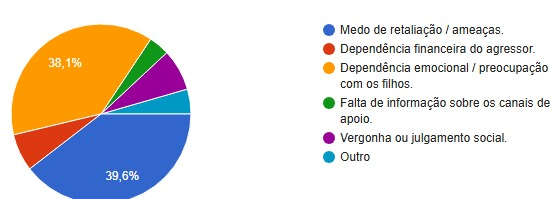
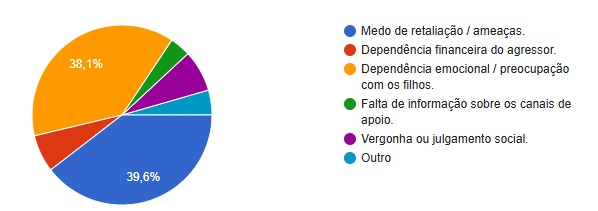
Revisão do relatório e conclusão do projeto.

Changed region(s): [[0.0, 0.1206, 0.3643, 1.0], [0.5768, 0.2111, 1.0, 0.8442], [0.5768, 0.1206, 0.9107, 0.1809]]

diff --git a/report/report.html b/report/report.html
@@ -4,10 +4,10 @@
 <head>
     <meta charset="UTF-8">
     <meta name="viewport" content="width=device-width, initial-scale=1.0">
-    <title>Agosto Lilás</title>
+    <title>Relatório - Agosto Lilás</title>
     <link href="../css/index.css" rel="stylesheet">
     <link href="../css/report.css" rel="stylesheet">
-    <link rel="icon" type="image/png" href="./laco.png">
+    <link rel="icon" type="image/png" href="../laco.png">
 </head>
 
 <body>
@@ -22,28 +22,69 @@
         <body>
             <main>
                 <div class="conteiner-pagina">
-                    <h1 class="to-home">Retornar</h1>
+                    <h1 class="report-h1">Relatório de Diagnóstico Social:</h1>
+
+                    <p>A campanha Agosto Lilás busca combater a violência contra a mulher e divulgar canais de apoio.
+                        Para entender o alcance dessa iniciativa e o impacto da violência no cotidiano,
+                        realizamos uma pesquisa com <strong>134 participantes.</strong>
+                        Os dados a seguir revelam a proximidade dos entrevistados com o problema e as principais
+                        barreiras que ainda impedem as denúncias.</p>
 
 
                     <section class="relatorio">
                         <div class="img-relat">
                             <h2>Você já ouviu falar sobre a campanha "Agosto Lilás"?</h2>
                             <img src="../img/Report/IMG1.jpeg" class="graphics">
-                        </div>
 
-                        <div class="img-relat">
-                            <h2>Você ou alguma mulher do seu convívio próximo (família, amigas, vizinhas) já sofreu
-                                algum tipo de violência?</h2>
-                            <img src="../img/Report/IMG2.jpeg" class="graphics">
-                        </div>
 
-                        <div class="img-relat">
-                            <h2>Na sua opinião, qual é a principal barreira para que as mulheres denunciem seus
-                                agressores?</h2>
-                            <img src="../img/Report/IMG3.jpeg" class="graphics">
+                            <div class="img-relat">
+                                <h2>Você ou alguma mulher do seu convívio próximo (família, amigas, vizinhas) já sofreu
+                                    algum tipo de violência?</h2>
+                                <img src="../img/Report/IMG2.jpeg" class="graphics">
+                            </div>
+
+                            <div class="img-relat">
+                                <h2>Na sua opinião, qual é a principal barreira para que as mulheres denunciem seus
+                                    agressores?</h2>
+                                <img src="../img/Report/IMG3.jpeg" class="graphics">
+                            </div>
                         </div>
-                </div>
-                </section>
+                        <div class="conclusao">
+                            <h2>O que concluímos com essas informações?</h2>
+                            <p>Os dados levantados reforçam uma dura realidade: <u>a violência contra a mulher não é um
+                                    fato isolado,</u> mas uma presença constante na vida da grande maioria das pessoas
+                                entrevistadas.<br>
+
+                                Além disso, a pesquisa nos mostra que o medo e a dependência
+                                emocional ainda são os grandes vilões que aprisionam as vítimas no ciclo da
+                                violência.<br>
+
+                                Por outro lado, o fato de que cerca de <strong>67,9%</strong> das pessoas que
+                                responsderam essa pesquisa
+                                não possuem conhecimento pleno sobre o Agosto Lilás evidencia a urgência de ampliar a
+                                divulgação de conteúdos
+                                educativos. O Agosto Lilás não deve ser apenas um mês de reflexão, mas um compromisso
+                                diário. Conhecer a rede de apoio, acolher sem julgar e romper o silêncio são passos
+                                essenciais para proteger vidas.</p><br>
+
+                            <p>Em suma, os dados coletados evidenciam um cenário paradoxal: embora a maioria dos
+                                respondentes conheça a campanha 'Agosto Lilás' apenas superficialmente e a violência de
+                                gênero
+                                esteja tristemente próxima da realidade da grande maioria (seja por relatos de terceiros
+                                ou vivência própria),
+                                o silêncio e a falta de denúncia continuam sendo alimentados por barreiras concretas.
+                                O medo de represálias e a dependência financeira do agressor lideram como os principais
+                                entraves
+                                que impedem as mulheres de romperem o ciclo de violência. Isso reforça a urgência não
+                                apenas de dar visibilidade a campanhas informativas, mas de fortalecer redes de apoio
+                                prontas,
+                                caminhos seguros para denúncia e autonomia financeira para que as vítimas encontrem
+                                suporte real para recomeçar.</p>
+
+                    </section>
             </main>
-        </body>
-        <script src="../js/index.js"></script>
+            <footer>
+                <img src="../img/cta-180.png" class="cta">
+            </footer>
+    </div>
+</body>

diff --git a/css/index.css b/css/index.css
@@ -356,6 +356,23 @@ p {
     padding: 20px;
 }
 
+#card-report {
+    display: flex;
+    justify-content: center; 
+    align-items: center;     
+    height: 100%;            
+    padding: 20px 30px;
+    box-sizing: border-box;
+}
+
+.report {
+    font-family: 'Lexend', sans-serif;
+    font-size: 34px;
+    color: #FFFFFF;
+    text-align: center;      
+    line-height: 1.4;        
+}
+
 .card-link {
     width: 600px;
     height: 300px;
@@ -514,13 +531,6 @@ p {
         font-size: 44px;
     }
 
-    .report {
-        font-family: 'MeriendaTitle', sans-serif;
-        font-size: 36px;
-        color: #FFFFFF;
-        text-align: center;
-        padding: 20px;
-    }
 }
 
 @media(max-width: 1134px) {

diff --git a/css/report.css b/css/report.css
@@ -1,3 +1,11 @@
+.report-h1 {
+    text-align: center;
+}
+
+h2 {
+    text-align: center;
+}
+
 .img-relat {
     display: flex;
     align-items: center;
@@ -8,12 +16,17 @@
 .graphics {
     width: 600px;
     height: 260px;
+    object-fit: contain;
+    margin: 0 auto;
+    display: block;
+    transition: transform 0.4s ease;
 }
 
-.to-home {
-    cursor: pointer;
-    text-align: center;
+.graphics:hover {
+    transform: scale(1.06);
+    transition: transform 0.3s ease-in-out;
 }
 
-
-
+.img-relat h2 {
+    font-size: 40px;
+}

diff --git a/js/index.js b/js/index.js
@@ -176,11 +176,5 @@ videoCard6.addEventListener('click', function () {
 const toReport = document.getElementById('card-report');
 
 toReport.addEventListener('click', function () {
-    window.open('../agosto-lilas/report/report.html', '_blank');
-});
-
-const toHome = document.getElementById('to-home');
-
-toHome.addEventListener('click', function () {
-    window.open('https://agosto-lilas-ten.vercel.app/', '_blank');
+    window.open('./report/report.html', '_blank');
 });
